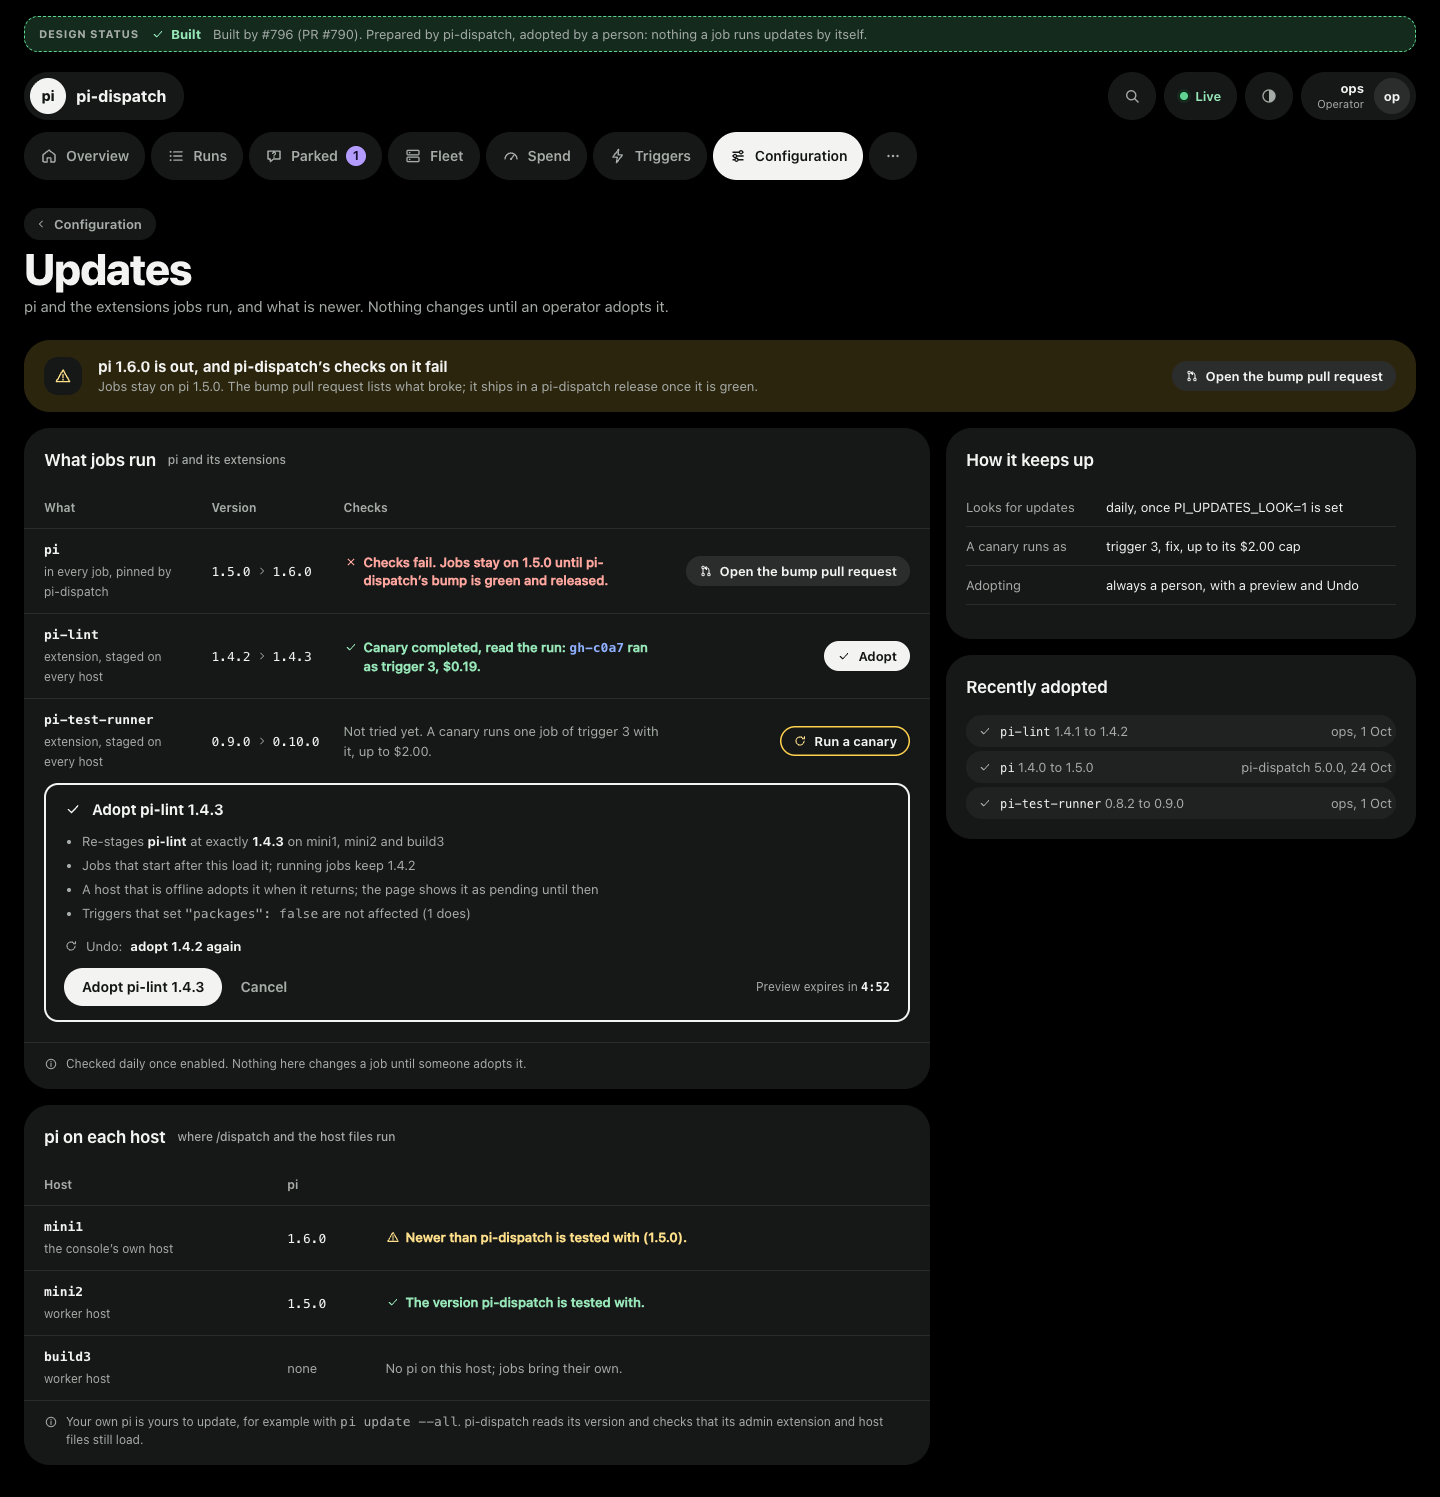
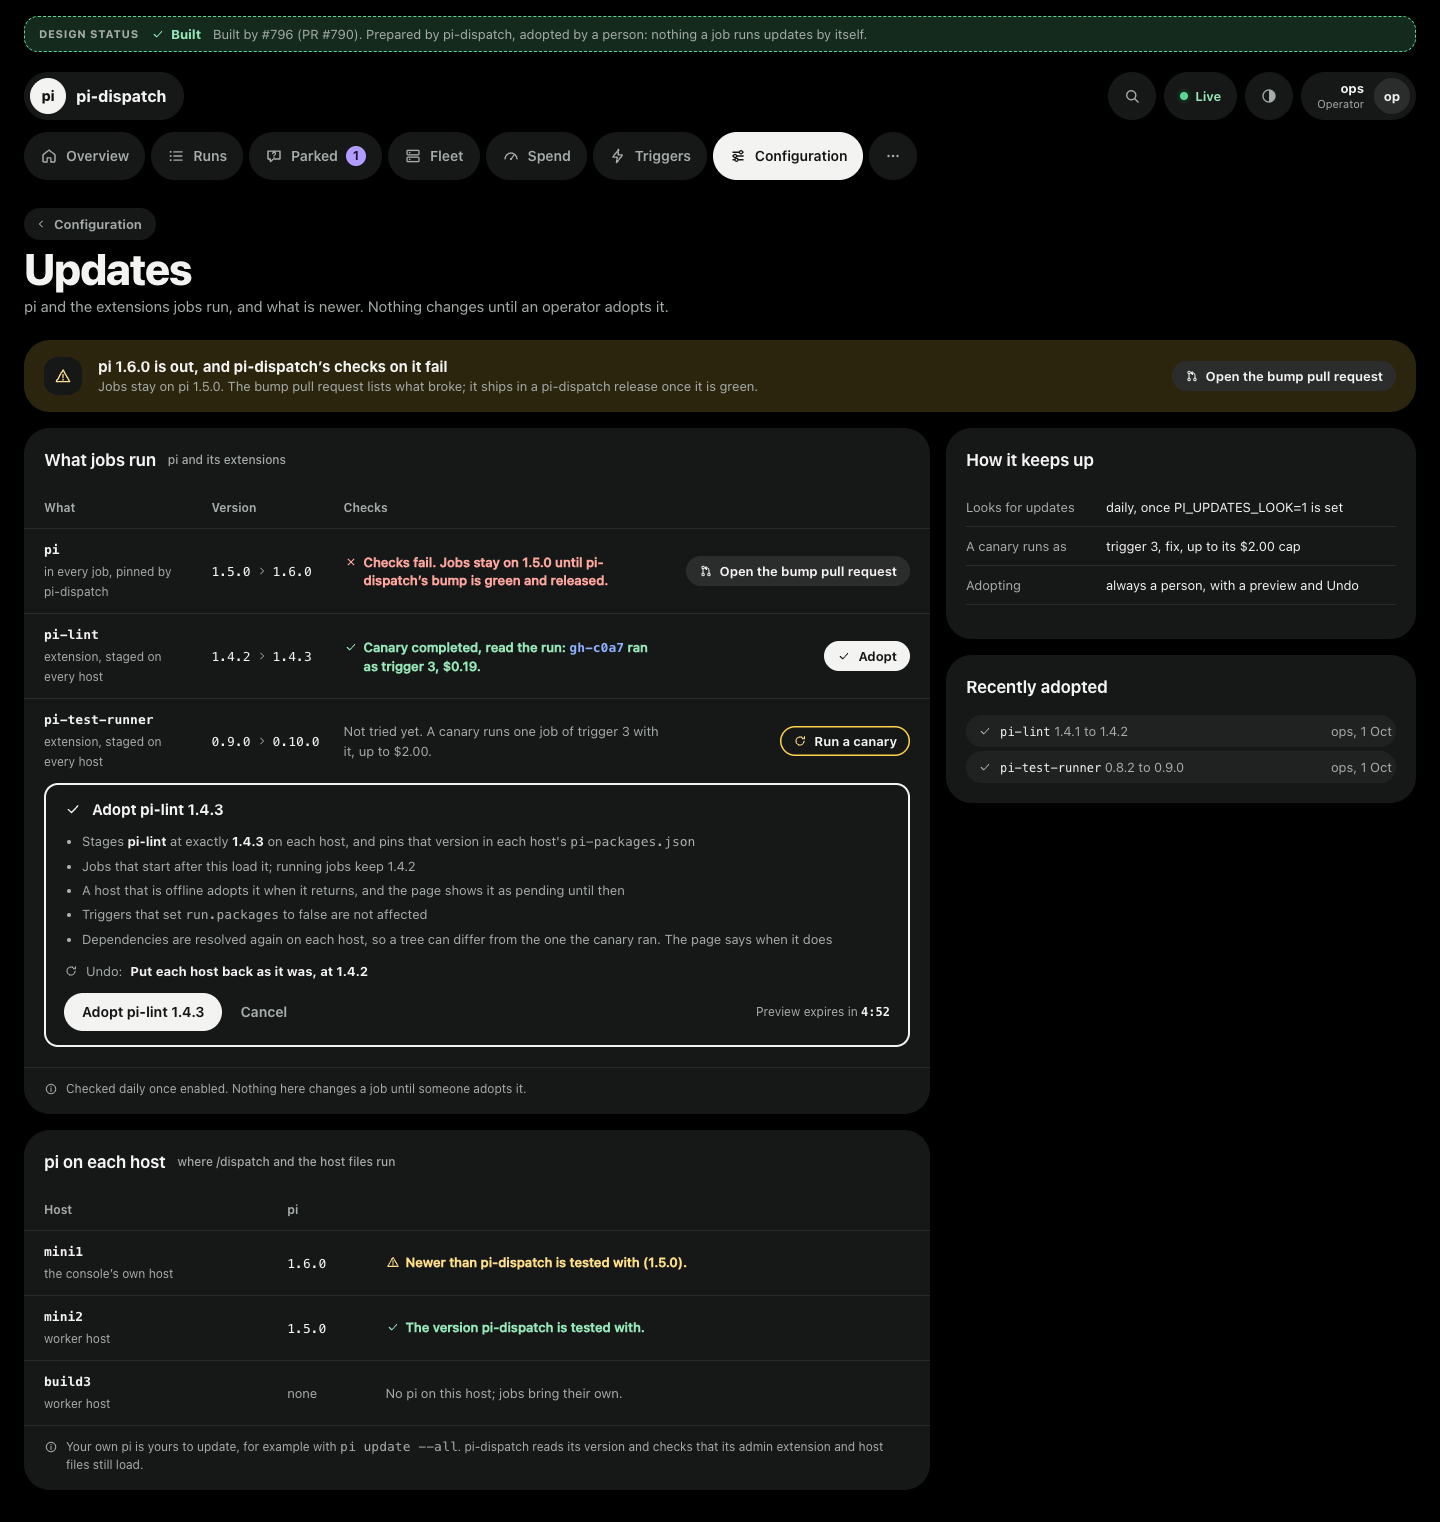
docs(evidence): the Adopt preview and card as they ended, on the final commit (#796)

diff --git a/README.md b/README.md
@@ -1,7 +1,7 @@
 # Visual evidence for #753, #754, #792, #793 and #796
 
 Unmodified screenshots from fixture deployments, separate from the implementation branch.
-Implementation: `08c52a8e44ea770bec51a6f42d574a75a1e891b9` (the final commit). The workbench, watching, run Workspace and Updates captures were taken at its parent `be89961f13516a8de1bdaaddf8bcdd6d76c9bf03`; the final commit adds one test and the design index, and changes nothing drawn. Zero touch is from `2b41c3abea7728f2d594d6d3a5fb7008be4be530`, and has not changed since.
+Implementation: `f34497701964c4ff0097b808efc37cf5ca9ab403` (the final commit), which the Updates captures are from. The workbench, watching and run Workspace captures were taken at `be89961f13516a8de1bdaaddf8bcdd6d76c9bf03`; the commits after it change tests, a test harness's wait, the design index and the words of the Adopt preview, and nothing those captures draw. Zero touch is from `2b41c3abea7728f2d594d6d3a5fb7008be4be530`, and has not changed since.
 Before: `deb7dfef867d469e0e90279719b3ecc033c60a27`.
 
 Zero touch before and after use the same six sent-draft runs. Gateway captures use a real existing Docker sandbox, production application handlers and CSPs, distinct TLS sites, Secure/Strict cookies, xterm.js, and actual input/output. The driver follows both rendered Run and Sandboxes new-tab entry points. Its isolated certificate allowlist trusts only the generated fixture certificate; an unrelated self-signed certificate is rejected. No system trust store is changed.
